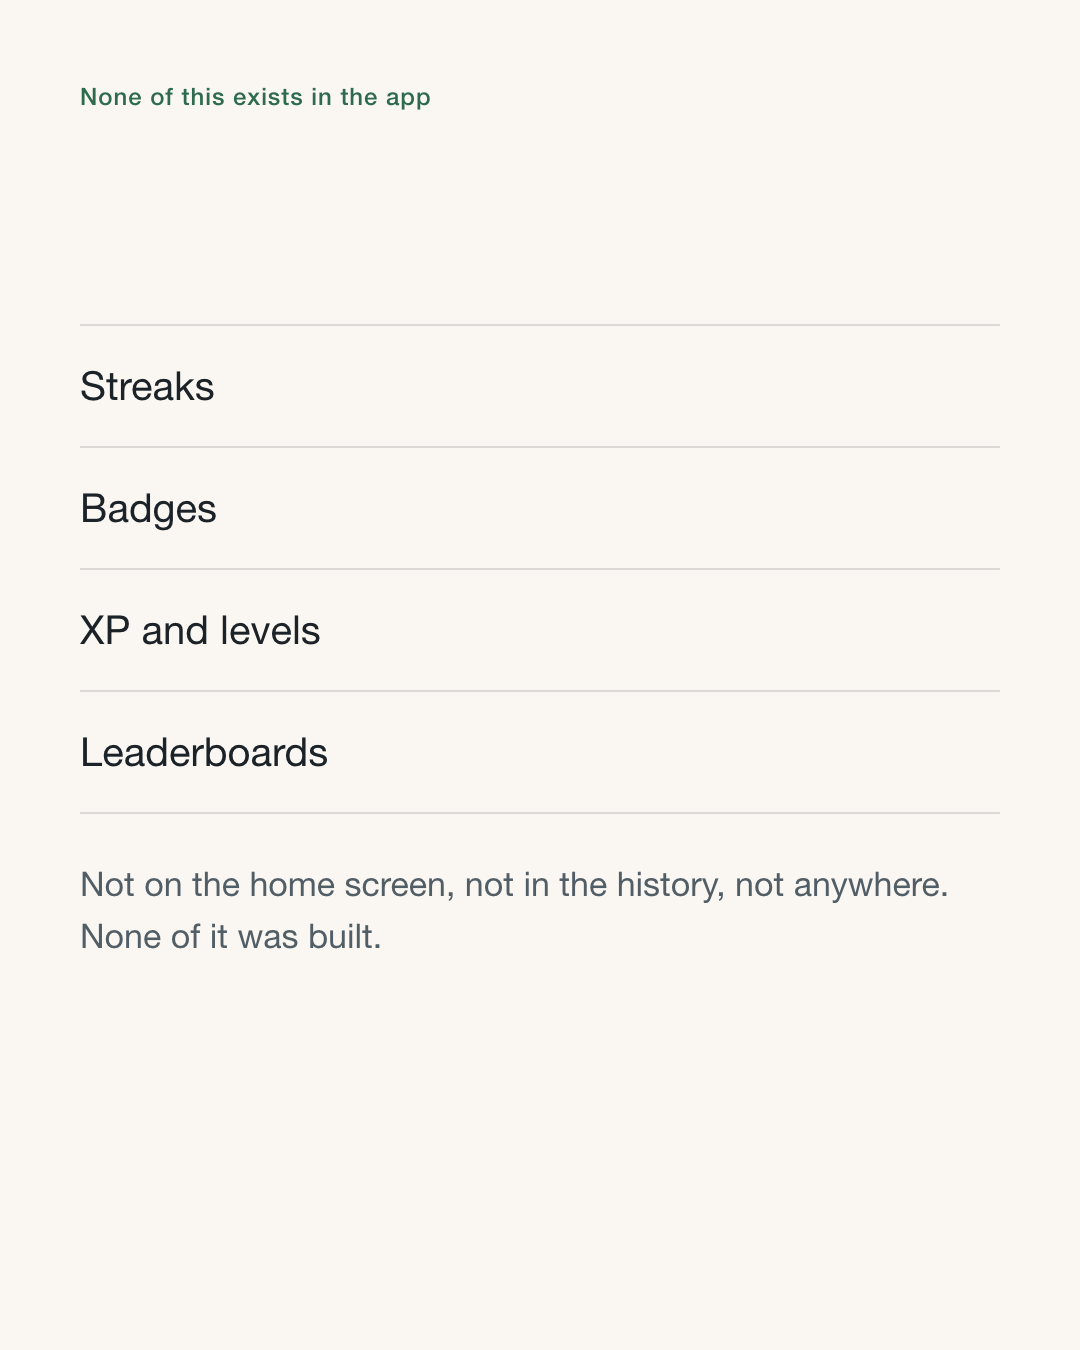
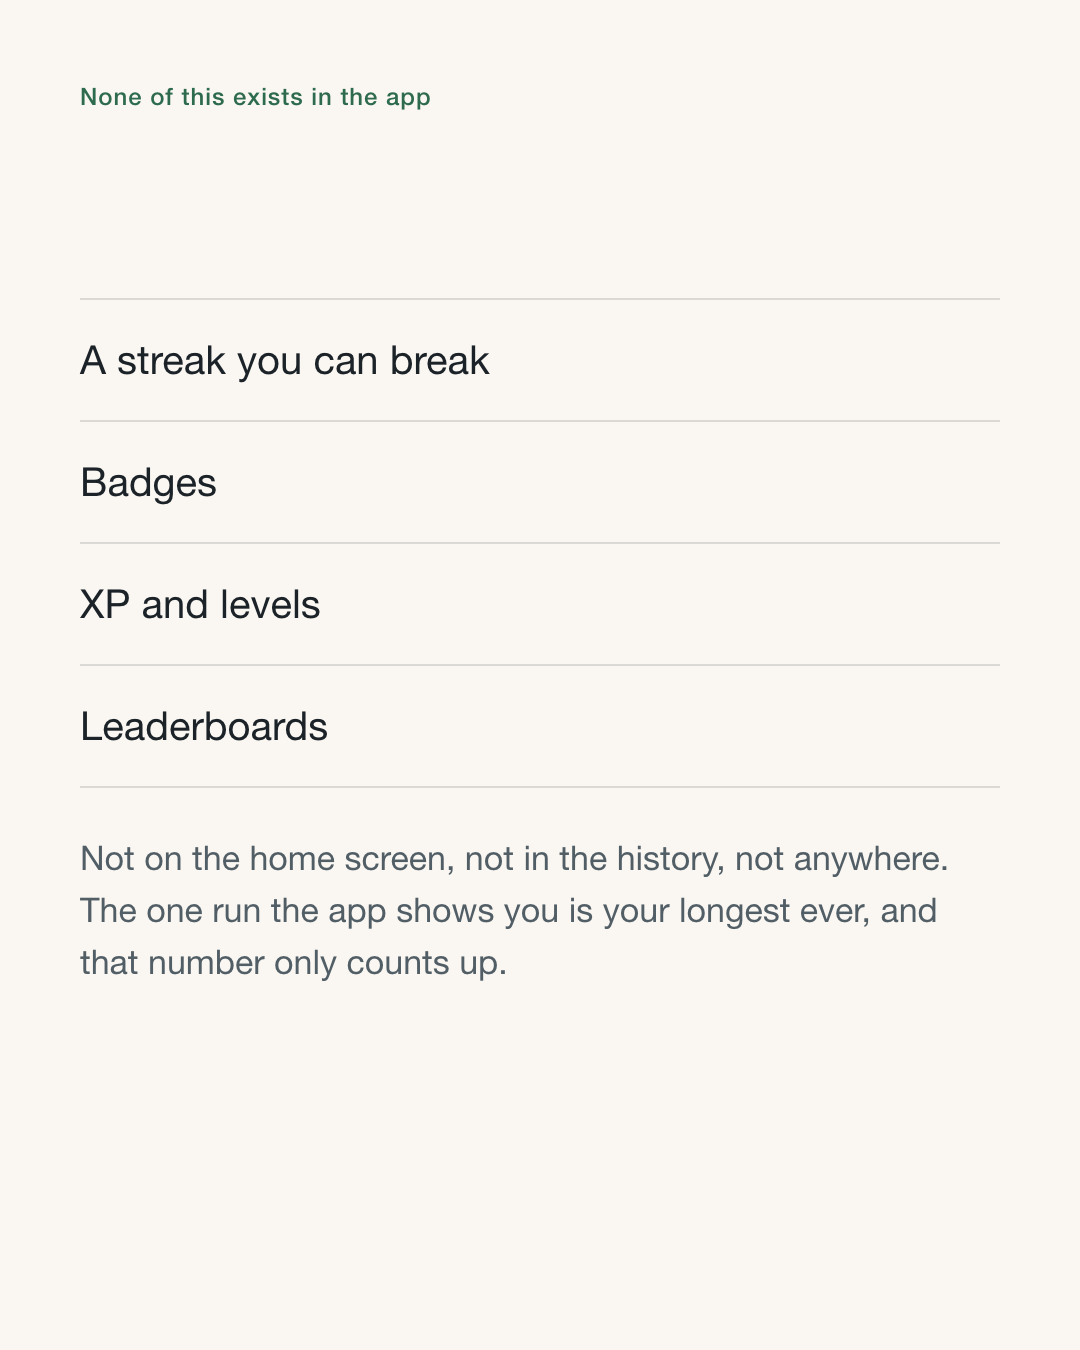
no-mistakes(review): fix carousel-4 streak/score claims, add guard input floors

diff --git a/gtm/10-instagram/carousel-4-nothing-to-lose/slide-04.html b/gtm/10-instagram/carousel-4-nothing-to-lose/slide-04.html
@@ -13,8 +13,8 @@
   </div>
 
   <div class="zone">
-    <h2 class="h1">A missed day moves the<br>number. It cannot<br>empty it.</h2>
-    <p class="body" style="margin-top: 48px;">The dent is real, and it is small, and it recovers as soon as you do. What a missed day cannot do is wipe out the weeks of showing up behind it.</p>
+    <h2 class="h1">A short week moves the<br>number. It cannot<br>empty it.</h2>
+    <p class="body" style="margin-top: 48px;">The score reads the week, not the day: miss a day and still meet your weekly goal, and it does not move at all. A week that falls short dents it, the dent is small, and it fades as the weeks after it come in.</p>
   </div>
 
   <div class="rail rail-bottom">

diff --git a/gtm/10-instagram/carousel-4-nothing-to-lose/slide-02.html b/gtm/10-instagram/carousel-4-nothing-to-lose/slide-02.html
@@ -14,12 +14,12 @@
 
   <div class="zone">
     <ul class="stack">
-      <li>Streaks</li>
+      <li>A streak you can break</li>
       <li>Badges</li>
       <li>XP and levels</li>
       <li>Leaderboards</li>
     </ul>
-    <p class="body muted" style="margin-top: 44px;">Not on the home screen, not in the history, not anywhere. None of it was built.</p>
+    <p class="body muted" style="margin-top: 44px;">Not on the home screen, not in the history, not anywhere. The one run the app shows you is your longest ever, and that number only counts up.</p>
   </div>
 
   <div class="rail rail-bottom">

diff --git a/gtm/10-instagram/carousel-4-nothing-to-lose/slide-05.html b/gtm/10-instagram/carousel-4-nothing-to-lose/slide-05.html
@@ -14,7 +14,7 @@
 
   <div class="zone">
     <h2 class="h1">The shortest session is a full show-up.</h2>
-    <p class="body" style="margin-top: 48px;">Not partial credit. Not an asterisk. The short session you had time for counts exactly the same as the long one you did not.</p>
+    <p class="body" style="margin-top: 48px;">Not partial credit. Not an asterisk. The short session you had time for counts exactly the same as the long one you did not. Sessions run anywhere from 5 to 60 minutes.</p>
   </div>
 
   <div class="rail rail-bottom">

diff --git a/gtm/10-instagram/fit-check.py b/gtm/10-instagram/fit-check.py
@@ -92,6 +92,23 @@ def is_paper(px):
     return all(abs(px[i] - PAPER[i]) <= TOLERANCE for i in range(3))
 
 
+def has_ink(rows, width, height):
+    """Whether any pixel inside the safe area is something other than Paper.
+
+    An all-Paper canvas is otherwise this check's cleanest possible pass, and it
+    is exactly what a slide renders as when its file:// URL fails to resolve:
+    render.sh passes --default-background-color=FAF7F2 and only tests that the
+    PNG is non-empty, which a valid blank capture satisfies. Requiring ink turns
+    "nothing is clipped" into "nothing is clipped and something rendered".
+    """
+    for y in range(BAND, height - BAND):
+        row = rows[y]
+        for x in range(BAND, width - BAND):
+            if not is_paper(row[x]):
+                return True
+    return False
+
+
 def check(path):
     """Return a list of human-readable failures for one rendered slide."""
     width, height, rows = read_png(path)
@@ -99,6 +116,12 @@ def check(path):
 
     if (width, height) != EXPECTED:
         problems.append("size is %dx%d, expected %dx%d" % (width, height, *EXPECTED))
+        return problems
+
+    if not has_ink(rows, width, height):
+        problems.append("is blank: every pixel inside the safe area is Paper, so "
+                        "the page rendered nothing (a broken file:// path or an "
+                        "empty slide), and a blank canvas must not pass a fit check")
         return problems
 
     for y in range(height):

diff --git a/gtm/10-instagram/claim-audit.py b/gtm/10-instagram/claim-audit.py
@@ -171,6 +171,20 @@ def main():
     files = authored_files()
     copy_files = [p for p in files if is_publishable_copy(p)]
     hooks, problems = frozen_hooks()
+
+    # The same rule the frozen-hook self-checks enforce, applied to this audit's
+    # own scope: a check with nothing to check must not print PASS. `files` is
+    # empty if the folder is moved, and `copy_files` is empty if the carousel
+    # directories are ever renamed off the `carousel-` prefix `is_publishable_copy`
+    # keys on - and this is the publication blocker, so a green run over zero
+    # slides is the one result it may never give.
+    if not files:
+        problems.append("found no authored files in gtm/10-instagram/ at all")
+    elif not copy_files:
+        problems.append("found no publishable copy (no carousel-*/slide-*.html or "
+                        "carousel-*/caption.md), so the banned-string and "
+                        "frozen-hook checks scanned nothing")
+
     failures = ["%s (this audit cannot pass while it cannot check)" % p
                 for p in problems]
 

diff --git a/gtm/10-instagram/carousel-4-nothing-to-lose/caption.md b/gtm/10-instagram/carousel-4-nothing-to-lose/caption.md
@@ -11,13 +11,13 @@ built, and no company is named. The mechanism is described; the motive is not.
 
 There is nothing here to lose.
 
-No streaks. No badges. No XP. No levels. No leaderboards. Not on the home screen, not in the history, not anywhere in Rep Today. None of it was built.
+No streak you can break. No badges. No XP. No levels. No leaderboards. Not on the home screen, not in the history, not anywhere in Rep Today. The one run Rep Today shows you is your longest ever, and that number only counts up.
 
 What there is instead is a Consistency Score: a rolling average of showing up, rather than a count of days in a row.
 
-A missed day moves that number. The dent is real, it is small, and it recovers as soon as you do. What the score will not do is go back to zero, because there is no zero to go back to.
+The score reads the week, not the day. Miss a day and still meet your weekly goal, and the number does not move at all. A week that falls short dents it, the dent is small, and it fades as the weeks after it come in.
 
-The shortest session is a full show-up. Not partial credit, not an asterisk. The short session you had time for counts exactly the same as the long one you did not.
+The shortest session is a full show-up. Not partial credit, not an asterisk. The short session you had time for counts exactly the same as the long one you did not. Sessions run anywhere from 5 to 60 minutes.
 
 And coming back is the event, not the failure. Return after a week away and the app opens to a session that is easy and winnable, and it treats the return itself as the thing worth marking.
 
@@ -33,13 +33,13 @@ iOS, not released yet. Link in bio.
 
 **Slide 1.** The Rep Today Ready Mark, a green outlined rounded square with a filled circle low inside it, sits small in the top left of a warm off-white card. Below a short green rule, large dark type reads: "There is nothing here to lose." The word "Swipe" sits quietly at the bottom left.
 
-**Slide 2.** A small green label at the top reads "None of this exists in the app". Below it, four words listed one per line and separated by thin horizontal rules: "Streaks", "Badges", "XP and levels", "Leaderboards". A grey line underneath reads: "Not on the home screen, not in the history, not anywhere. None of it was built."
+**Slide 2.** A small green label at the top reads "None of this exists in the app". Below it, four entries listed one per line and separated by thin horizontal rules: "A streak you can break", "Badges", "XP and levels", "Leaderboards". A grey line underneath reads: "Not on the home screen, not in the history, not anywhere. The one run the app shows you is your longest ever, and that number only counts up."
 
 **Slide 3.** A small green label at the top reads "What there is instead". Large dark type reads: "A score that forgives." Below it: "Rep Today keeps a Consistency Score: a rolling average of showing up, not a count of days in a row."
 
-**Slide 4.** A small green label at the top reads "The honest version". Large dark type reads: "A missed day moves the number. It cannot empty it." Below it: "The dent is real, and it is small, and it recovers as soon as you do. What a missed day cannot do is wipe out the weeks of showing up behind it."
+**Slide 4.** A small green label at the top reads "The honest version". Large dark type reads: "A short week moves the number. It cannot empty it." Below it: "The score reads the week, not the day: miss a day and still meet your weekly goal, and it does not move at all. A week that falls short dents it, the dent is small, and it fades as the weeks after it come in."
 
-**Slide 5.** A small green label at the top reads "Where the floor sits". Large dark type reads: "The shortest session is a full show-up." Below it: "Not partial credit. Not an asterisk. The short session you had time for counts exactly the same as the long one you did not."
+**Slide 5.** A small green label at the top reads "Where the floor sits". Large dark type reads: "The shortest session is a full show-up." Below it: "Not partial credit. Not an asterisk. The short session you had time for counts exactly the same as the long one you did not. Sessions run anywhere from 5 to 60 minutes."
 
 **Slide 6.** A small green label at the top reads "After a gap". Large dark type reads: "Coming back is the event, not the failure." Below it: "Return after a week away and the app opens to a session that is easy and winnable, and it treats the return itself as the thing worth marking."
 

diff --git a/gtm/10-instagram/README.md b/gtm/10-instagram/README.md
@@ -123,6 +123,10 @@ The check enforces it: every slide must be exactly 1080x1350, with no ink within
 Since each slide has 80px of padding, ink in that band means either an overflow clipped at the canvas boundary or a broken margin.
 Both fail the build.
 
+It also requires that the safe area contain ink at all, because an empty margin band is otherwise satisfied most cleanly by a blank canvas.
+A slide whose `file://` path fails to resolve renders as bare Paper (`render.sh` passes `--default-background-color=FAF7F2`) and produces a valid, non-empty PNG, so the byte-size test on the capture cannot tell that apart from a real slide.
+Requiring one non-Paper pixel inside the safe area turns "nothing is clipped" into "nothing is clipped and something rendered".
+
 ### `widow-check.py`
 
 Also runs automatically at the end of `render.sh`.
@@ -244,7 +248,7 @@ The HTML is the source of truth and the PNGs under each `carousel-*/render/` are
 Both are committed, so a reviewer can see the assets without running anything.
 Re-rendering on **the same Chrome build** reproduces them byte for byte, which is what makes a diff meaningful after a copy edit; a different Chrome version can rasterize, compress, or font-fall-back differently and produce a whole-folder binary diff with no copy change behind it, so read an unexplained 35-file image diff as a toolchain difference before reading it as a regression.
 `render.sh` finds Chrome or Chromium itself, renders every slide at a forced device scale factor of 1, and then runs all three guards, so a layout that does not fit, a headline that widows, or a claim that collides fails the regenerate instead of reaching a reviewer.
-Rendering a carousel that has no slides in it is also a failure rather than a green run over nothing, and each guard enforces that for itself rather than trusting the caller: a mistyped carousel name, an empty directory, or an empty path list fails in `fit-check.py` and `widow-check.py` too, because a check with nothing to check must never print PASS.
+Rendering a carousel that has no slides in it is also a failure rather than a green run over nothing, and each guard enforces that for itself rather than trusting the caller: a mistyped carousel name, an empty directory, an empty path list, or a folder holding no publishable copy fails in `fit-check.py`, `widow-check.py` and `claim-audit.py` too, because a check with nothing to check must never print PASS.
 
 ### Publishing, when Gate 0 clears
 
